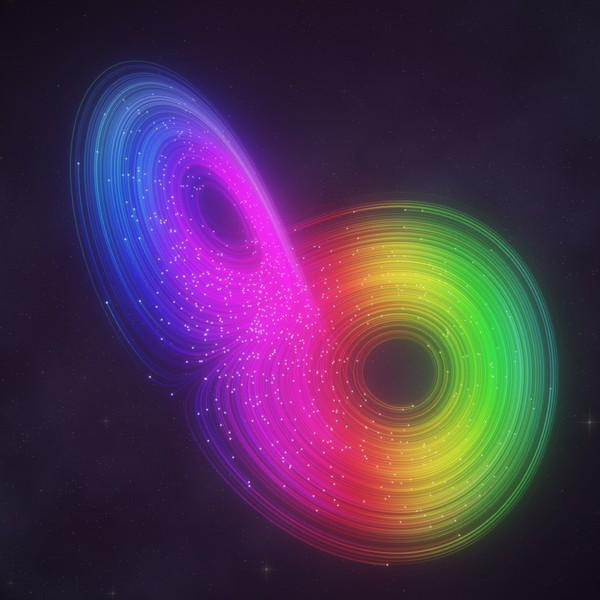
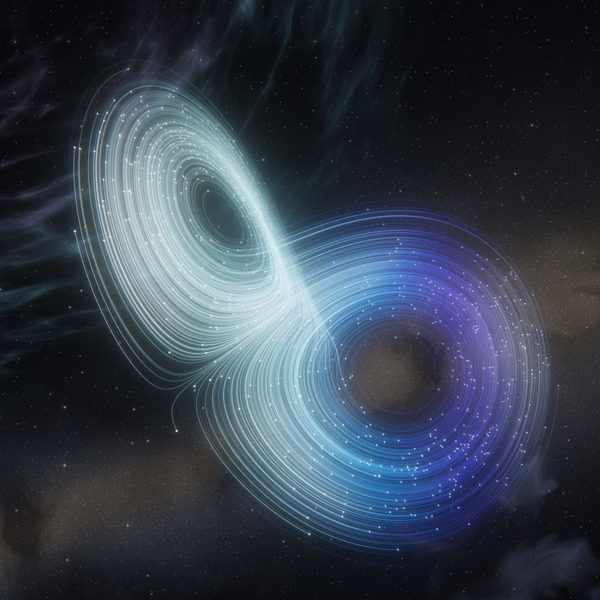
Ciel sans cascade : ciel suivant calculé à un instant figé puis fondu enchaîné ; aperçu Glacier
Les bandes du ciel étaient calculées à des instants différents : leurs raccords descendaient à l'écran.
Trois textures (ancien, actuel, en préparation), fondu entre l'ancien et l'actuel.

Claude-Session: https://claude.ai/code/session_01N6y29suVCMFuYNShFzqMQ3

diff --git a/index.html b/index.html
@@ -332,7 +332,8 @@ void main() {
 
 const COMP_FS = `#version 300 es
 precision highp float;
-uniform sampler2D uScene, uBloom, uSky;
+uniform sampler2D uScene, uBloom, uSky, uSkyB;
+uniform float uSkyMix;
 uniform vec2 uRes, uCam, uExt;
 uniform float uTime, uBloomI, uExposure, uStars, uPulse, uPx;
 in vec2 vUv; out vec4 o;
@@ -399,7 +400,8 @@ void main() {
 
   // ciel lointain (Voie lactée, nébuleuses), calculé à part et lentement : il glisse un peu avec la caméra
   vec2 sc = 3.2 * tanh(uCam / 3.2), sh = sc * vec2(0.048, 0.032);
-  vec4 sky = texture(uSky, (p + sh) / uExt * 0.5 + 0.5);
+  vec2 suv = (p + sh) / uExt * 0.5 + 0.5;
+  vec4 sky = mix(texture(uSky, suv), texture(uSkyB, suv), uSkyMix);   // fondu entre l'ancien ciel et le nouveau
   vec3 bg = vec3(0.00035, 0.00035, 0.0007) + sky.rgb * sky.rgb * (1.0 + uPulse * 0.5);
 
   // étoiles : une poussière d'étoiles qui dessine la Voie lactée, puis des étoiles de plus en plus proches
@@ -423,7 +425,9 @@ void main() {
 }`;
 
 /* Ciel lointain, calculé dans une texture à mi-résolution un peu plus grande que l'écran (marge pour la
-   parallaxe) et rafraîchi par bandes, une bande par image : il évolue très lentement, inutile de tout refaire. */
+   parallaxe). Il évolue très lentement : le ciel suivant est calculé en coulisse, une bande à la fois mais à
+   un instant figé (sinon les raccords entre bandes descendent à l'écran comme une cascade), puis il remplace
+   l'actuel en fondu enchaîné pendant que le suivant se prépare. */
 const SKY_FS = `#version 300 es
 precision highp float;
 uniform vec2 uExt, uNebA, uNebB;
@@ -534,7 +538,7 @@ function freeTarget(r) { if (r) { gl.deleteTexture(r.t); gl.deleteFramebuffer(r.
 
 // ciel lointain : texture à mi-résolution avec une marge de parallaxe (SKY_M, en hauteurs d'écran), rafraîchie par bandes
 const SKY_M = 0.16, SKY_STRIPS = 12;
-let sky = null, skyExt = [1, 1], skyStrip = 0, skyFull = true, skyClear = false, skyT = 0;
+let skyTex = [], skyOld = null, skyCur = null, skyBuild = null, skyExt = [1, 1], skyStrip = 0, skyFull = true, skyClear = false, skyT = 0, skyTime = 0;
 let W = 0, H = 0, scene = null, ms = null, levels = [];
 let renderScale = 1, msaaNow = -1;
 function resize() {
@@ -544,10 +548,12 @@ function resize() {
   msaaNow = samples();
   W = canvas.width = w; H = canvas.height = h;
 
-  freeTarget(scene); freeTarget(sky); levels.forEach(freeTarget);
+  freeTarget(scene); skyTex.forEach(freeTarget); levels.forEach(freeTarget);
   skyExt = [W / H / 2 + SKY_M, 0.5 + SKY_M];
   const sd = Math.min(H * 0.75, SKY_DENSITY);                                 // pixels du ciel par hauteur d'écran
-  sky = makeTarget(Math.max(1, Math.round(2 * skyExt[0] * sd)), Math.max(1, Math.round(2 * skyExt[1] * sd)));
+  const sw = Math.max(1, Math.round(2 * skyExt[0] * sd)), sh = Math.max(1, Math.round(2 * skyExt[1] * sd));
+  skyTex = [makeTarget(sw, sh), makeTarget(sw, sh), makeTarget(sw, sh)];
+  [skyOld, skyCur, skyBuild] = skyTex;
   skyFull = true; skyClear = false;
   if (ms) { gl.deleteRenderbuffer(ms.rb); gl.deleteFramebuffer(ms.fb); ms = null; }
 
@@ -1145,14 +1151,18 @@ function draw(now) {
   for (let i = levels.length - 1; i > 0; i--) pass(P_UP, levels[i - 1], levels[i].t, [1 / levels[i].w, 1 / levels[i].h]);
   gl.disable(gl.BLEND);
 
-  // 3. ciel lointain : une bande tous les 1/15 s, il évolue très lentement (tout d'un coup après un redimensionnement
-  //    ou un changement de palette)
+  // 3. ciel lointain : une bande du ciel suivant tous les 1/15 s, toutes à un même instant figé ; une fois
+  //    complet, il remplace l'actuel en fondu (tout d'un coup après un redimensionnement ou un changement de palette)
+  const SKY_STEP = LOWPOWER ? 1 / 6 : 1 / 15;
   skyT += dt;
-  if (cfg.nebula > 0 && (skyFull || skyT >= (LOWPOWER ? 1 / 6 : 1 / 15))) {
-    skyT = 0;
+  if (cfg.nebula > 0 && (skyFull || skyT >= SKY_STEP)) {
+    skyT = skyFull ? 0 : Math.min(skyT - SKY_STEP, SKY_STEP);
     skyClear = false;
-    gl.bindFramebuffer(gl.FRAMEBUFFER, sky.fb);
-    gl.viewport(0, 0, sky.w, sky.h);
+    if (skyFull) { skyStrip = 0; skyTime = cam.t; }
+    else if (skyStrip === 0) skyTime = cam.t;
+    const dst = skyFull ? skyCur : skyBuild;
+    gl.bindFramebuffer(gl.FRAMEBUFFER, dst.fb);
+    gl.viewport(0, 0, dst.w, dst.h);
     gl.useProgram(P_SKY.p);
     const asp = W / H, por = smooth01(1.3, 0.7, asp);                         // écran vertical : nébuleuses en haut et en bas
     const at = (ux, uy, px, py) => [((ux + (px - ux) * por) - 0.5) * asp, (uy + (py - uy) * por) - 0.5];
@@ -1162,20 +1172,27 @@ function draw(now) {
     gl.uniform3fv(P_SKY.u.uTint, skyTint);
     gl.uniform3fv(P_SKY.u.uTint2, skyTint2);
     gl.uniform1f(P_SKY.u.uMono, skyMono);
-    gl.uniform1f(P_SKY.u.uTime, cam.t);
+    gl.uniform1f(P_SKY.u.uTime, skyTime);
     gl.uniform1f(P_SKY.u.uNebula, cfg.nebula);
     gl.enable(gl.SCISSOR_TEST);
     for (let n = skyFull ? SKY_STRIPS : 1; n > 0; n--) {
-      const y0 = Math.floor(skyStrip * sky.h / SKY_STRIPS), y1 = Math.floor((skyStrip + 1) * sky.h / SKY_STRIPS);
-      gl.scissor(0, y0, sky.w, y1 - y0);
+      const y0 = Math.floor(skyStrip * dst.h / SKY_STRIPS), y1 = Math.floor((skyStrip + 1) * dst.h / SKY_STRIPS);
+      gl.scissor(0, y0, dst.w, y1 - y0);
       gl.drawArrays(gl.TRIANGLES, 0, 3);
-      skyStrip = (skyStrip + 1) % SKY_STRIPS;
+      skyStrip++;
     }
     gl.disable(gl.SCISSOR_TEST);
-    skyFull = false;
+    if (skyFull) {                                         // ciel complet tout de suite, sans fondu
+      skyOld = skyCur; skyStrip = 0; skyFull = false;
+    } else if (skyStrip >= SKY_STRIPS) {                   // ciel suivant prêt : il devient l'actuel, le fondu repart
+      const free = skyOld;
+      skyOld = skyCur; skyCur = skyBuild; skyBuild = free === skyCur || free === skyOld ? skyTex.find(x => x !== skyOld && x !== skyCur) : free;
+      skyStrip = 0;
+    }
   } else if (cfg.nebula <= 0 && !skyClear) {
     skyClear = true;
-    gl.bindFramebuffer(gl.FRAMEBUFFER, sky.fb); gl.clearColor(0, 0, 0, 0); gl.clear(gl.COLOR_BUFFER_BIT);
+    gl.clearColor(0, 0, 0, 0);
+    for (const x of skyTex) { gl.bindFramebuffer(gl.FRAMEBUFFER, x.fb); gl.clear(gl.COLOR_BUFFER_BIT); }
   }
 
   // 4. composition finale
@@ -1185,7 +1202,9 @@ function draw(now) {
   gl.useProgram(P_COMP.p);
   gl.activeTexture(gl.TEXTURE0); gl.bindTexture(gl.TEXTURE_2D, scene.t); gl.uniform1i(u.uScene, 0);
   gl.activeTexture(gl.TEXTURE1); gl.bindTexture(gl.TEXTURE_2D, levels[0].t); gl.uniform1i(u.uBloom, 1);
-  gl.activeTexture(gl.TEXTURE2); gl.bindTexture(gl.TEXTURE_2D, sky.t); gl.uniform1i(u.uSky, 2);
+  gl.activeTexture(gl.TEXTURE2); gl.bindTexture(gl.TEXTURE_2D, skyOld.t); gl.uniform1i(u.uSky, 2);
+  gl.activeTexture(gl.TEXTURE3); gl.bindTexture(gl.TEXTURE_2D, skyCur.t); gl.uniform1i(u.uSkyB, 3);
+  gl.uniform1f(u.uSkyMix, skyOld === skyCur ? 1 : Math.min(1, (skyStrip + Math.min(1, skyT / SKY_STEP)) / SKY_STRIPS));
   gl.uniform2f(u.uExt, skyExt[0], skyExt[1]);
   gl.uniform1f(u.uPx, 1080 / Math.min(W, H));
   gl.uniform2f(u.uRes, W, H);
